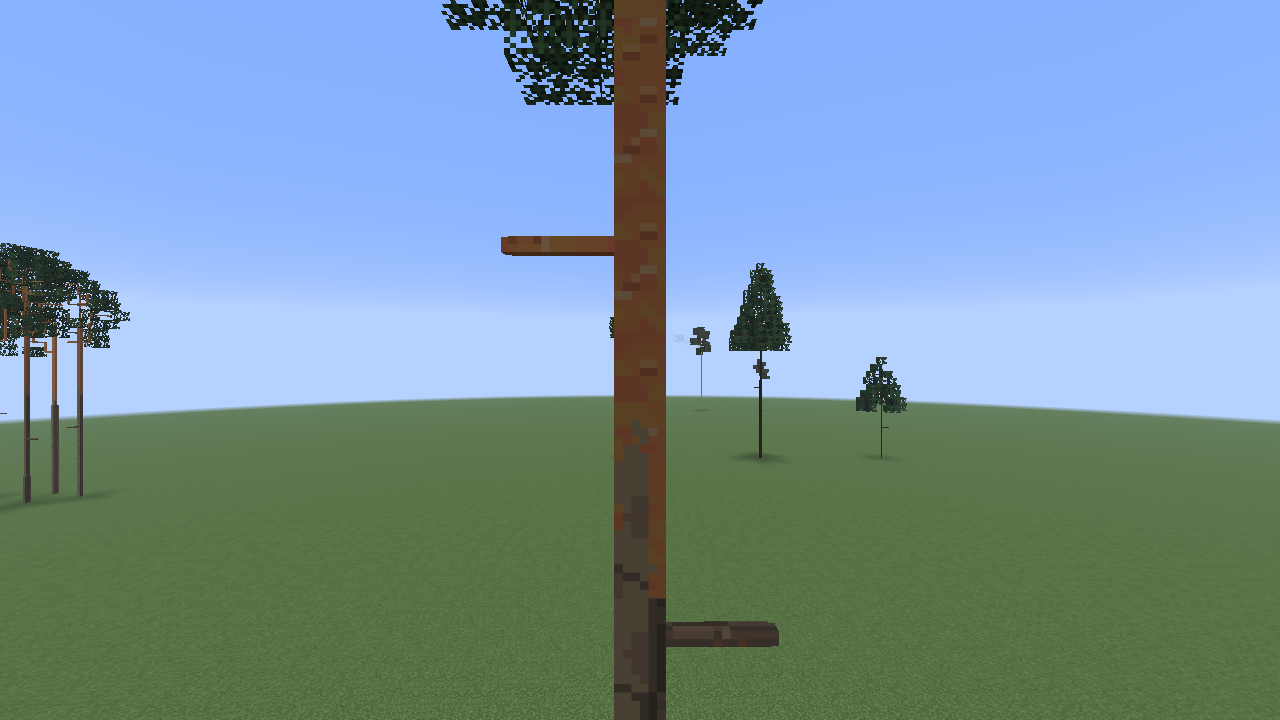
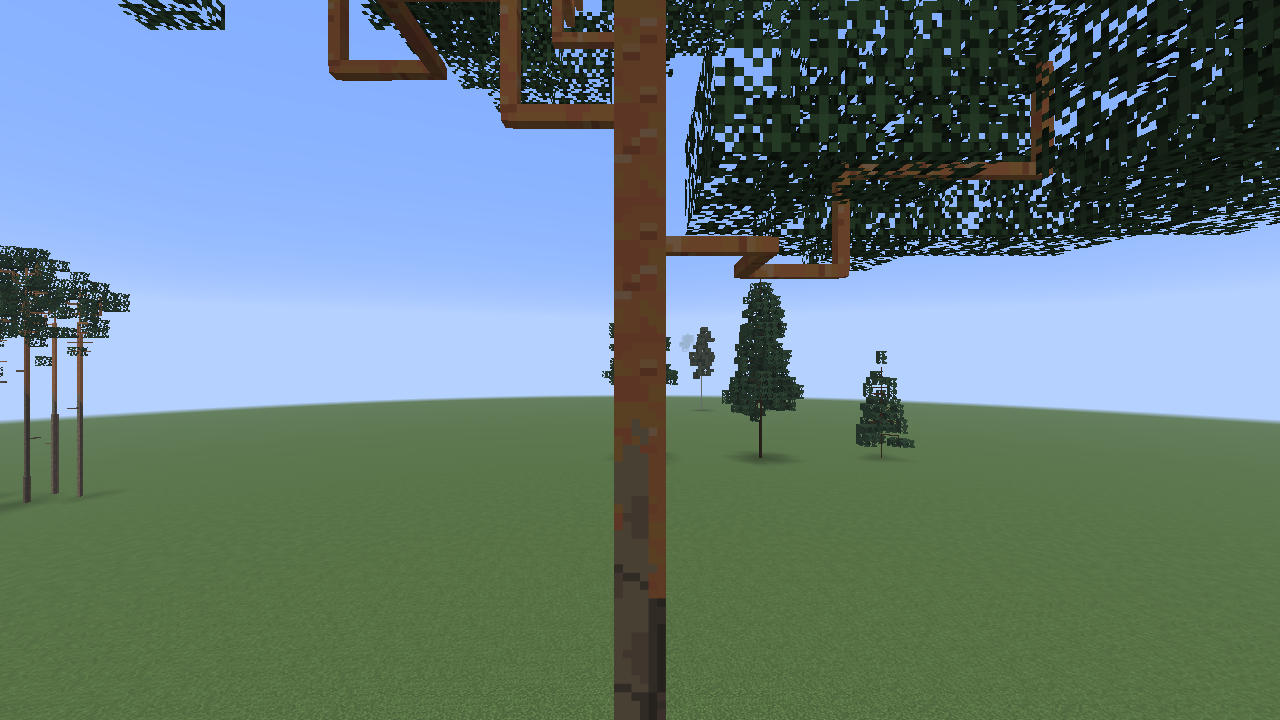
V6 review fixes, round 1
- Pine leaders stay in their column and carry needles in the upper crown; branch segments stop at the wood of other branches instead of merging into rods and loops
- In-game board: leaf distances must be supported by the world around them; six lone trees with stones in their crowns exercise the partial write
- New in-game screenshots and preview sheets (wood-only sheets for risk R4)
- Docs: docs/04 round 1 section with measurements and the N2 trade-off question for CP-B, docs/00 G.12 V6-a/d/g/h/i/j updated and V6-n/o/p added, BRIEF state; full suite passed

diff --git a/src/main/java/pl/polishforests/worldgen/tree/TreeShapePlan.java b/src/main/java/pl/polishforests/worldgen/tree/TreeShapePlan.java
@@ -26,8 +26,9 @@ import pl.polishforests.worldgen.landscape.Noise;
  * <li><b>Skeleton:</b> a trunk with a slight lean and wobble; branches are curves of nodes about one block apart whose
  * angle from the vertical turns smoothly from the base to the tip and whose horizontal direction never reverses, so the
  * voxels make slanted staircases instead of right-angled elbows (risk R4). Conifers with whorls rotated by the golden
- * angle (the pine with a crown in its upper quarter to third, tufts along the outer half of each branch, an umbrella
- * of few long limbs when old, dry stubs below the crown; the spruce with staggered whorls, the lowest ones drooping
+ * angle and a leader that stays in its column (the pine with a crown in its upper quarter to third, tufts along the
+ * outer half of each branch and around the leader in the upper crown, an umbrella of few long limbs when old, dry
+ * stubs below the crown; the spruce with staggered whorls, the lowest ones drooping
  * most, and a narrow spire), the birch with ascending branches whose tips hang, broad-leaved trees with a leader and
  * curved lateral branches with twigs, or (the oak) a fork into thick, crooked limbs that climb in vertical runs of one
  * to three blocks with one-block sideways jogs (axis-aligned, so they keep their radius). The branch lengths follow the
@@ -714,6 +715,10 @@ public final class TreeShapePlan {
 				int k = oldPine ? 2 + (next() < 0.45 ? 1 : 0)
 						: shape.perWhorl() + (next() < 0.35 ? 1 : 0) - (next() < 0.3 ? 1 : 0);
 				phase += GOLDEN + range(-0.3, 0.3);
+				if (!spruce && t >= 0.4 && nLeafH[at] <= 0) {
+					// Needles around the pine's leader in the upper crown: no bare candelabra of leader and branch bases.
+					leafAt(at, leafH * 0.6, leafV * 0.7);
+				}
 				for (int j = 0; j < k; j++) {
 					double azimuth = phase + j * 2 * Math.PI / k + range(-0.4, 0.4);
 					int from = at;
@@ -777,8 +782,8 @@ public final class TreeShapePlan {
 					if (i >= 1) {
 						leafAt(node, leafH * 0.7, leafV * 0.8);
 					}
-				} else if (i >= n * 0.45) {
-					// The pine's tufts cover the outer half of the shoot, so no bare elbow shows.
+				} else if (i >= (n <= 3 ? 0 : n * 0.45)) {
+					// The pine's tufts cover the outer half of the shoot (a short one all along), so no bare elbow shows.
 					leafAt(node, leafH * (oldPine ? 0.8 : 0.65), leafV * (oldPine ? 0.6 : 0.75));
 				}
 			}

diff --git a/docs/04-pionowy-wycinek.md b/docs/04-pionowy-wycinek.md
@@ -483,7 +483,7 @@ S8c (M2-20 d2) kończy się w trzecim worktree przed CP-B (PW-17). Kalendarz jes
 | R1 | LIGHT i FEATURES przy koronach 1:1 (grąd 1000–1500 liści na chunk wobec 600–800 w lesie wanilii) | budżety przekroczone, wolne wczytywanie | pomiar V10 przed runem i fauną, puste środki koron, PW-13, rzadsze a2, nowe budżety (PW-10) | V10 |
 | R2 | FPS przez quady liści w trybie Fancy (6–9 tys. na kolumnę chunka) | spadek klatek w grądzie | liście jako `LeavesBlock` (MoreCulling, tryb Fast), przelot FPS, gęstość skupień | V10 |
 | R3 | wysięg modelu pnia poza blok przy Sodium i AO | szczeliny, migotanie | tablica próbek w V2 jako pierwszy test, zapas: wariant C | V2 |
-| R4 | schodki ukośnych grubych konarów | „kanciaste” dęby | konary blisko osi, ukośność tylko dla r ≤ 2, ocena na PNG | V6 |
+| R4 | schodki ukośnych grubych konarów; kolanka i „rury” cienkich gałęzi | „kanciaste” dęby, korony jak rusztowanie | konary dębu osiowymi odcinkami, ukośność tylko dla r ≤ 2, gałęzie jako krzywe o kątach dobrych dla wokseli, bez haków i zlewania gałęzi, ocena na PNG samego drewna (`*_drewno.png`) i test kolanek i haków | V6 |
 | R5 | przycinanie koron i determinizm: sąsiedzi z chunków w promieniu 2 nie mają `ChunkHabitats` na etapie FEATURES | różnice zależne od kolejności, spory koron | próba V5, PW-9 (a), test determinizmu w każdym kroku drzew (w V6 także ekoton z drzewami zastępczymi wanilii, które ignorują terytoria; `docs/00` V5-h). Wakat kandydata wolno uznać tylko wtedy, gdy na pewno nie wyrośnie na nim drzewo: dokładne wakaty tylko w chunku pnia, w promieniu 1 tylko pewne (runda 2 V5). Pas słabszego zwarcia na granicach chunków V9 usuwa według V5-i i sprawdza zrzutem okapu z góry | V5–V11 |
 | R6 | okno zapisu 3 × 3 chunki | ucięte korony i długie kłody | promień korony ≤ 16, kłody do wnętrza okna | V6, V11 |
 | R7 | korony nad dachami struktur | liście w wioskach | `BUILDING_GAP` z promienia korony, maska struktur, test wiosek z S8 | V9 |
@@ -1452,3 +1452,53 @@ Ekoton z drzewami zastępczymi (R5, V5-h; drzewostan grądu 3 × 3 chunki, 30% k
 - Liczby karty norm (N1–N4) mierzy dopiero V9, gdy planer stanie w świecie.
 
 **Testy.** `TreeShapePlanTest` (9: determinizm wobec kolejności, nowego obszaru roboczego i wątków; łańcuch `parent` do korzenia i promień nierosnący; liście ≤ 6 od drewna niezależnym BFS; zapis tylko w 3 × 3 chunkach i kole 16; brak sporów koron w drzewostanach 4 × 4 chunki dla 4 map drzewostanu i 2 zestawów gatunków, ponad 1000 drzew: w piętrze żadna kolumna dwóch drzew i wszystko w terytorium, między piętrami żadne dwa liście ani dwa drewna w jednym bloku, drewno pięter niższych z dala od pni; pasma liści; strefa przejściowa sosny; sylwetki archetypów; raport bloków), `ProceduralTreeStatesTest` (kodek ficzera z wartościami domyślnymi i błędami, stany pni, kory sosny, pełnej kłody i liści), `TreeShapePlanCostTest` (`@Tag("cost")`), `CrownTerritoryTest`, `RegistrySnapshotTest` (bez zmian: V6 nie dodaje bloków ani przedmiotów), `fastTest`, gametest `slice -Psites=trees` (PASS), pełny zestaw `tools/dev/run-tests test`.
+
+### Runda 1 poprawek po przeglądzie V6 (2026-10-17)
+
+Przegląd zgłosił 2 problemy blokujące, 3 poważne i 10 drobnych. Wszystkie sprawdzone w kodzie i na zrzutach; prawdziwe są wszystkie (fałszywego alarmu nie było), część poprawiona inaczej, niż podpowiadał przegląd (niżej). Drobne wybory: `docs/00` G.12 (V6-a, V6-d, V6-g, V6-h, V6-i, V6-j zmienione, nowe V6-n, V6-o, V6-p).
+
+**Blokujące.**
+- **Gałęzie jak rury i rusztowania (R4).** Przyczyny w kodzie: gałąź to 2–3 węzły z całym wygięciem w ostatnim odcinku (DDA dawał „poziomo, potem pionowo”), gałązki pod kątem do 63° od gałęzi zawracały wzdłuż osi (haki), odcinek wchodzący w drewno innej gałęzi szedł dalej po nim (z dwóch gałęzi powstawał „pręt” obok pnia albo pętla, np. ⊐), a przewodnik sosny z pochyleniem i drganiem robił schodki. Poprawki: gałąź to krzywa z węzłami co ok. 1 blok łuku, kąt od pionu zmienia się płynnie od nasady do końca, kierunek poziomy jest stały; kąty kroków przesunięte do takich, które wokselizują się czysto (ok. 45° = pojedyncze schodki, czyli linia ukośna z daleka, albo 70–110° = długie odcinki poziome z pojedynczym krokiem), więc w jednej gałęzi nie ma naraz pionowego i poziomego odcinka po 2 bloki; gałązki zachowują znaki składowych gałęzi i konaru (bez haków); odcinek, który trafia w drewno innej gałęzi, kończy się (dalej idzie tylko przez przodka albo, na samym początku, przez rodzeństwo z tego samego węzła); przewodnik sosny i świerka zostaje w swojej kolumnie (pochylenie ≤ 0,42, bez drgania); kępy igieł sosny na zewnętrznej połowie każdej gałęzi (krótkiej na całej), igły wokół przewodnika w górnych 60% korony; gołe cienkie końce bez liścia obok (przycięte skupienia) usuwane. Nowy arkusz samego drewna `iglaste_drewno.png` / `lisciaste_drewno.png` (10 px na blok, liście blade), więc R4 da się ocenić na PNG. Test `branchesMakeNoHooksAndFewElbows` pilnuje liczb.
+- **Pasma pięter jak tort.** Stałe pasma zastąpione dwiema falistymi powierzchniami podziału nad kolumnami świata (G.12 V6-a): górna 0,44, dolna 0,2 wysokości wierzchołków drzewostanu klasy wieku w kolumnie, z szumem ±3 i ±1,5 bloku (nowe sole `feature.tree.layers.upper` i `.lower`), rząd przy powierzchni przerzedzony. Nasada korony okapu wynika z udziału korony gatunku (pasmo jej już nie podnosi), drzewo a2 kończy się 0–2,5 bloku pod górną powierzchnią, a jego korona zaczyna się do 3 bloków nad dolną (bez wspólnej „półki”), podrost ma wysokości 2–5 m bez wspólnego pułapu. Gwarancja z V6 zostaje: na płaskim terenie liście dwóch pięter nie trafiają w jeden blok (wszystkie drzewa drzewostanu widzą te same powierzchnie, wiek z mapy drzewostanu; `TreeRequest` dostał pole `stands`). Odrzucone z podpowiedzi: zejście koron okapu niżej w kolumnach bez terytorium a2. Takiego zbioru nie da się policzyć dokładnie z chunka pnia (terytorium a2 przy znaczniku sięga 1,5 R, wakaty dalszych chunków są nieznane), a bezpieczny nadzbiór pokrywa w lesie naturalnym prawie wszystkie kolumny.
+
+**Poważne.**
+- **Grab i brzoza jak talerze na tyczkach** (skutek pasm): w formie drzewostanu udział korony (wysokość nad najniższym liściem) grabu 0,45 / 0,42 (dojrzały / starodrzew; było 0,18 / 0,14), brzozy 0,45 / 0,45 (0,22 / 0,19), lipy 0,54 / 0,52 (starodrzew 0,28), klonu 0,49 / 0,45 (starodrzew 0,25). Grab gęstszy (wypełnienie 0,96, pusty środek 0,2) i jajowaty. Minimum gatunku (grab, lipa, klon, buk, świerk ≥ 0,4, brzoza ≥ 0,3) sprawdza test sylwetek. Przeniesienie drzewa do a2, gdy powierzchnia skróciłaby koronę bardziej, nie było potrzebne.
+- **Liściaste nie do odróżnienia, dąb bez konarów.** Dąb: 2–3 grube konary od rozwidlenia, wspinające się pionowymi odcinkami po 1–3 bloki z przesunięciem o blok w bok (30–48° od pionu, osiowo, więc bez obcięcia do 2 px), do 0,45–0,6 obwiedni, potem każdy rozwidla się na dwa krzywe ramiona do brzegu korony; korona szersza i krótsza. Bloki drewna r ≥ 3 poza kolumną pnia w starym dębie: 12,7 na drzewo (było 3,7), średni największy promień poza pniem 2,9 px. Lipa jajowata i gęsta (niższa nasada, wypełnienie 0,94), buk z kopułą (profil spłaszczony u góry), klon niższy i okrągły (22 / 25 m), jesion z wysoką, rzadką kopułą (wznoszące się gałęzie, większe skupienia). Szerokość / wysokość korony w drzewostanie (40 drzew, dojrzały / starodrzew): dąb 1,06 / 1,09, grab 0,86 / 0,96, klon 0,81 / 0,96, buk 0,78 / 0,80, lipa 0,69 / 0,76, jesion 0,70 / 0,69. Celu przeglądu 1,3–1,6 dla dębu nie osiągnięto (sprawy otwarte).
+- **Świerk z płaskim dnem i kwadratem z góry.** Okółki obracane o kąt złoty, 3–5 gałęzi, część o blok wyżej, długości × 0,72–1,1, końce dolnych okółków opadają do ok. 55° (1–2 bloki rozłożone wzdłuż gałęzi), szczyt wyższych niż 8 bloków drzew to iglica szeroka na 1 blok. Najniższy rząd liści dojrzałego / starego świerka w drzewostanie: 4,5 / 7,4 liścia (było 14,7 / 19,1).
+
+**Drobne (wszystkie prawdziwe, wszystkie poprawione).**
+- `write` liczył odległości tak, jakby każdy liść stanął: teraz zapisuje najpierw drewno, sprawdza, które liście da się postawić, i przy jakimkolwiek braku liczy BFS od istniejącego drewna przez stawiane liście (`TreeVoxels.leafDistances(written, placeable)`).
+- Sprawdzenie w grze nie mogło zawieść: teraz każdy liść musi mieć odległość ≤ 6, której świat wokół niego nie przeczy (co najmniej najmniejsza z sąsiadów + 1 według `LeavesBlock.getOptionalDistanceAt`), oraz doszło sześć drzew z kamieniem w co piątym miejscu liścia i w jednym bloku gałęzi (częściowy zapis).
+- Test częściowego drewna: nowy `partialWritesGiveTheDistancesOfWhatExists` (brak poddrzewa gałęzi i co piątego liścia, porównanie z niezależnym BFS); stary komentarz poprawiony.
+- Drzewa samotne (bez terytorium i mapy drzewostanu): forma wolnostojąca bez powierzchni podziału, udział korony +0,15, promień × 1,25 (V6-n; dotyczy też sadzonek V7).
+- Kompromis z N2 zapisany jako pytanie do CP-B (niżej).
+- Javadoc ficzera i G.12 V6-g bez `/place feature` (skonfigurowanego ficzera tego typu jeszcze nie ma).
+- Suche kikuty sosny zawsze z korą dolną (szarą).
+- Stara sosna jako parasol: korona 0,22–0,27 wysokości, promień × 1,3, 2–3 długie konary na okółek, płaskie kępy. Szerokość / wysokość korony 1,18 (było 0,73).
+- Podrost: 0,6–1 × 3 / 4,5 / 5 m, najwyżej do dolnej powierzchni (2–5 m), bez wspólnego pułapu.
+- „Naleśniki” jesionu i buka a2: skupienia z własną głębokością (× 0,85–1,2) i przesunięciem w pionie (±0,4), u liściastych promień pionowy co najmniej 0,8 poziomego.
+
+**Pomiary po rundzie.**
+
+Kształt gałęzi (40 drzew okapu w formie drzewostanu na gatunek i wiek, dojrzały / starodrzew; „kolanka” miarą przeglądu, liczą też nasady gałęzi na pniu; „wewnątrz” bez nasad, czyli tylko pionowy odcinek 2–3 bloków i poziomy ≥ 2 w jednej gałęzi):
+
+| Gatunek | kolanka (przegląd: przed) | kolanka teraz | wewnątrz gałęzi | haki (przed) | haki teraz |
+|---|---|---|---|---|---|
+| sosna | 4,1 / 7,1 | 1,4 / 1,8 | 0,0 / 0,1 | — | 0 / 0 |
+| świerk | 8,8 / 11,3 | 10,1 / 11,7 | 0 / 0 | — | 0 / 0 |
+| dąb | 9,0 / 15,2 | 7,6 / 10,4 | 1,1 / 2,2 | 2,4 / 3,4 | 0 / 0 |
+| buk | 4,5 / 6,9 | 7,2 / 9,9 | 0 / 0,2 | 1,7 / 3,1 | 0 / 0 |
+
+Kolanka świerka to prawie wyłącznie poziome gałęzie odchodzące od pnia (naturalne dla świerka); buk ma ich więcej, bo ma więcej gałęzi. Haki brzozy 0,2–0,25 na drzewo (pochylony przewodnik).
+
+Pionowe piętra (`standsHaveNoEmptyLeafRow`, widok z boku środkowego rzędu chunków jak w `drzewostan_*.png`, kolumny z liśćmi na 48 w każdym rzędzie bloków): grąd od rzędu 1 do wierzchołków 11–48, żaden rząd pusty (było 0 w trzech rzędach); bór gospodarczy od rzędu 5: 7–47 (podrost rzadki z założenia).
+
+Koszt planera (`costTest`, spokojna maszyna, mediana 7 rund po 400 drzew; drzewa samotne, więc w formie wolnostojącej, większe niż w drzewostanie): sosna 0,062 / 0,064 ms, świerk 0,101 / 0,121, brzoza 0,052 / 0,071, dąb 0,136 / 0,190, buk 0,208 / 0,254, grab 0,130 / 0,163, lipa 0,166 / 0,204, jesion 0,104 / 0,131, klon 0,117 / 0,139 (budżety 0,2 i 0,5 ms: wszystkie w budżecie, świerk starodrzewu z zapasem 1,7 ×). Drzewostan starodrzewu z terytoriami: 0,047 ms na drzewo z gatunkami boru, 0,062 ms z gatunkami grądu (było 0,039 / 0,047), czyli ok. 1 ms na chunk.
+
+Tablica w grze (`slice -Psites=trees`, PASS): 332 drzewa, 14 758 bloków drewna, wszystkie na miejscu, 28 767 liści, każdy z odległością ≤ 6 popartą światem, zaraz i po 200 tickach; drzewa z kamieniami: 729 kamieni, 10 bloków drewna za kamieniem (z potomkami), 2831 liści, wszystkie poparte. Ekoton z drzewami zastępczymi: 246 liści i 16 bloków drewna proceduralnego zależnych od kolejności (było 320 i 22), drewno wanilii 0. Zrzuty w `docs/wycinek/drzewa/gra/` zastąpione nowymi.
+
+**Pytanie do CP-B (kompromis N2).** Powierzchnie podziału trzymają liście pięter osobno (wynik niezależny od kolejności dekoracji), ale przez to drzewa a2 kończą się pod górną powierzchnią: 8–14 bloków w drzewostanie dojrzałym (średnio 10,5) i 9–16 w starodrzewie (średnio 12,3), a N2 (§6) chce a2 15–22 bloki. Do wyboru przy CP-B: (a) zostawić rozdział pięter (a2 niższe niż w N2); (b) podnieść górną powierzchnię (a2 wyższe, ale korony okapu krótsze, bo w drzewostanie nie schodzą pod nią); (c) pozwolić liściom pięter się nakładać (a2 i okap jak w N2, część liści zależna od kolejności dekoracji chunków).
+
+**Sprawy otwarte.** Korona dębu ma szerokość / wysokość ok. 1,1, nie 1,3–1,6 (w drzewostanie ogranicza ją terytorium, samotny dąb ma dłuższą koronę); jeśli przy CP-B dąb będzie za mało „dębowy”, lekka kolonizacja przestrzeni tylko dla dębu (budżet pozwala: 0,19 ms z 0,5). Z daleka, pod światło, na brzegu boru nadal widać jasne cienkie odcinki gałęzi sosen pod kępami (nasady gałęzi przy przewodniku); kolanek i haków w gałęziach praktycznie nie ma, ale kanciasty wygląd cienkich pni przy kolankach to cecha bloku pnia (pasek kolanka, V10). Powierzchnie podziału liczą się od podstawy pnia, więc na stoku liście sąsiednich pięter mogą się spotkać (V9).
+
+**Testy.** `TreeShapePlanTest` (13 testów, w tym nowe: `partialWritesGiveTheDistancesOfWhatExists`, `layersKeepToTheirSplitSurfaces` zamiast testu pasm, `splitSurfacesAreWavyAndOrdered`, `standsHaveNoEmptyLeafRow`, `branchesMakeNoHooksAndFewElbows`; sylwetki w formie drzewostanu z minimum długości korony; „lustro” sosny z suchymi kikutami kory dolnej), `ProceduralTreeStatesTest`, `CrownTerritoryTest`, `TreeShapePlanCostTest` (`costTest`), `fastTest`, gametest `slice -Psites=trees` (PASS, z drzewami z kamieniami), pełny zestaw `tools/dev/run-tests test`.

diff --git a/docs/00-decyzje-do-podjecia.md b/docs/00-decyzje-do-podjecia.md
@@ -302,16 +302,19 @@ Wybory przyjęte w kroku V6 (planer drzew `TreeShapePlan`) bez pytania, zgodnie 
 
 | # | Wybór | Uzasadnienie i alternatywa |
 |---|---|---|
-| V6-a | **Pasma wysokości liści pięter** (względem podstawy pnia): okap od 6 / 13 / 16 bloków w górę (drągowina / dojrzały / starodrzew), piętro a2 3–5 / 5–12 / 5–15, podrost do 2 / 4 / 4. Nasada korony okapu nie schodzi poniżej pasma (korona krótsza niż w tabeli gatunku), drzewo a2 jest niższe od górnej granicy pasma o 0–3 bloki (różna wysokość, nie płaska warstwa) | Na płaskim terenie liście dwóch pięter nigdy nie trafiają w ten sam blok, więc wynik nie zależy od kolejności dekoracji, choć diagramy pięter (V5) się nakładają. Alternatywa: pasma z rzeczywistych sąsiadów (gatunek i nasada korony okapu nad drzewem a2) w V9. Liczby [S] do kalibracji z N2 w V9 (a2 wychodzi niższe niż 15–22 bl. z §6) |
+| V6-a | **Powierzchnie podziału pięter** (runda 1 przeglądu V6, zamiast pasm o stałych granicach): dwie faliste powierzchnie nad kolumnami świata (szum o fali 13 bloków, sole `feature.tree.layers.upper` i `.lower`), górna na 0,44 wysokości wierzchołków drzewostanu klasy wieku w kolumnie (14 / 25 / 29 m) ±3 bloki, dolna na 0,2 ±1,5 bloku (co najmniej 3, górna co najmniej 3 nad dolną). W drzewostanie liście i gałęzie okapu leżą na górnej powierzchni lub nad nią, a2 między powierzchniami, podrost pod dolną; rząd przy powierzchni przerzedzony (45% komórek pustych). Nasada korony okapu wynika z udziału korony gatunku, nie z pasma; drzewo a2 sięga 0–2,5 bloku pod górną powierzchnię nad pniem | Na płaskim terenie liście dwóch pięter nadal nigdy nie trafiają w ten sam blok (wszystkie drzewa drzewostanu widzą te same powierzchnie, wiek z mapy drzewostanu), a granica pięter nie jest prostą linią przez cały drzewostan (Z10): w grądzie każdy rząd od 1 do wierzchołków ma liście (najmniej 11 z 48 kolumn). Odrzucone: korony okapu schodzące niżej w kolumnach bez terytorium a2 (zbiór kolumn, które a2 może zająć, pokrywa w lesie naturalnym prawie całą powierzchnię, bo krawędź terytorium sięga 1,5 R). **Kompromis z N2 do CP-B** (pytanie w `docs/04`, „Runda 1 poprawek po przeglądzie V6”) |
 | V6-b | **Drewno pięter niższych trzyma się kolumnę od pni** wszystkich zachowanych kandydatów wzoru M2 (predykat `Trunks`, w grze `CrownTerritories.Session#candidate`); liście nie | Drewno okapu (pień, suche kikuty) przechodzi przez pasma niższych pięter; drewno z drewnem byłoby zależne od kolejności, drewno z liśćmi nie (drewno nadpisuje liście, liście drewna nie) |
 | V6-c | Odcinek wchodzący w istniejące drewno (rodzica albo rodzeństwa z tego samego węzła) idzie dalej od tego bloku zamiast się urywać; promień bloku to najwyżej promień jego rodzica | Rodzeństwo z jednego węzła (konary dębu, okółki) dzieli pierwsze bloki; urywanie gubiło większość korony. Łańcuch `parent` i promień nierosnący zostają zachowane |
-| V6-d | **Ukośne odcinki (> 25° od osi) mają najwyżej 2 px**, konary dębu odchodzą 12–24° od pionu i wychylają się ku końcom | Ryzyko R4 (schodki grubych ukośnych konarów); grube konary prawie pionowe, cienkie gałęzie dowolnie |
+| V6-d | **Ukośne odcinki (> 25° od osi) mają najwyżej 2 px**; gałęzie to krzywe z węzłami co ok. 1 blok łuku, kąt od pionu zmienia się płynnie od nasady do końca, kierunek poziomy się nie odwraca (gałązki zachowują znaki składowych gałęzi i konaru). Konary dębu: 2–3 konary od rozwidlenia, każdy w pionowych odcinkach po 1–3 bloki z przesunięciem o 1 blok w bok (30–48° od pionu, osiowo, więc grube), do 0,45–0,6 obwiedni, potem dwa rozwidlenia do brzegu korony | Ryzyko R4 (runda 1 przeglądu V6: kolanka i „rusztowania” w grze). Kolanka wewnątrz gałęzi (oba ramiona ≥ 2 bloki) spadły do 0–0,7 na drzewo poza dębem (1,1 / 2,2, kanciaste konary pasują do dębu); haki wstecz: 0 poza brzozą (0,2–0,25, pochylony przewodnik); gałąź trafiająca w drewno innej gałęzi kończy się (bez prętów i pętli) |
 | V6-e | **Liście zastępcze wanilii do V7** (przez id): sosna i świerk `spruce_leaves`, brzoza `birch_leaves`, grab i buk `dark_oak_leaves`, dąb, lipa, klon i jesion `oak_leaves`, `persistent` false, odległość z planera | Własne liście gatunków daje V7; do tego czasu odcienie różnią przynajmniej iglaste, brzozę i grupę grabu |
 | V6-f | **Pełna kłoda wanilii** (`TreeTrunk.log()`, oś z kierunku rodzica) dla promienia ≥ 7,5 px (pierśnica ≥ ok. 94 cm), bez dysków kłód dla pni grubszych niż blok | W tabeli wycinka najgrubszy dąb starodrzewu ma pierśnicę ok. 78 cm × 1,15 = 90 cm (r 7), więc pełnej kłody jeszcze nie ma; dyski kłód (pomniki) w M3 |
-| V6-g | Ficzer `polishforests:procedural_tree` (pola `species`, `layer` domyślnie `canopy`, `age_class` domyślnie `mature`) sadzi drzewo samotne bez terytorium (sadzonka, `/place feature`), na wolnym bloku nad blokiem z pełną górną ścianą. Drzewostan V9 woła planer wprost z terytorium i zapisuje przez `ProceduralTreeFeature.write` | ZW-1: `PlacedFeature.place` nie przekazuje warstwy, wieku ani sąsiadów |
-| V6-h | **Zapis:** drewno, potem liście, tylko na powietrze i `#replaceable_by_trees`; blok drewna, którego rodzic nie powstał, i jego potomkowie odpadają, a odległości liści liczą się wtedy od nowa (`TreeVoxels.leafDistances`). Bez dekoratorów wanilii | Nie zostawia liści do opadnięcia ani wiszących gałęzi; R8 (huby i mech na cienkich pniach) |
-| V6-i | **„Lustro” sosny** od 0,45 / 0,50 / 0,55 wysokości (drągowina / dojrzały / starodrzew, ±0,02, na pełnym bloku), pod nim 2 bloki strefy przejściowej na pniu; gałęzie powyżej strefy z korą „lustra”, suche kikuty poniżej z korą dolną | Plan V6 i V1-i; gałęzie sosny w naturze mają cienką rudą korę |
-| V6-j | **Allometria** [S] (tabela w `SpeciesShape`): wysokość, pierśnica, udział i promień korony okapu według klasy wieku i gatunku (np. sosna 14 / 23 / 27 m, dąb 15 / 27 / 31 m, pierśnica dębu 14 / 45 / 78 cm), rozrzut ±10% wysokości i ±15% pierśnicy i promienia z hasza pnia; drzewo a2 to 0,62 wysokości, 0,55 pierśnicy i 0,7 promienia korony gatunku (w paśmie), podrost 2,5 / 4 / 4,5 m | Raport techniki §3.3 i `06 §9.2`; kalibracja z kartą norm (N1–N4) w V9 |
+| V6-g | Ficzer `polishforests:procedural_tree` (pola `species`, `layer` domyślnie `canopy`, `age_class` domyślnie `mature`) sadzi drzewo samotne (bez terytorium i mapy drzewostanu, więc w formie wolnostojącej, V6-n) na wolnym bloku nad blokiem z pełną górną ścianą. Na razie dostępny tylko z Javy (nie ma jeszcze skonfigurowanego ficzera tego typu; dadzą go V7 lub V9). Drzewostan V9 woła planer wprost z terytorium i mapą drzewostanu i zapisuje przez `ProceduralTreeFeature.write` | ZW-1: `PlacedFeature.place` nie przekazuje warstwy, wieku ani sąsiadów. Wzmianka o `/place feature` usunięta (runda 1 przeglądu) |
+| V6-h | **Zapis:** drewno, potem liście, tylko na powietrze i `#replaceable_by_trees`; blok drewna, którego rodzic nie powstał, i jego potomkowie odpadają. Przed liśćmi zapis sprawdza, które liście da się postawić; gdy któryś blok drewna albo liścia nie powstaje, odległości liczą się od nowa od istniejącego drewna przez stawiane liście (`TreeVoxels.leafDistances(written, placeable)`). Bez dekoratorów wanilii | Nie zostawia liści do opadnięcia ani wiszących gałęzi (runda 1 przeglądu: wcześniej liść za kamieniem mógł dostać odległość 1–6 przy rzeczywistej 7); R8 |
+| V6-i | **„Lustro” sosny** od 0,45 / 0,50 / 0,55 wysokości (drągowina / dojrzały / starodrzew, ±0,02, na pełnym bloku), pod nim 2 bloki strefy przejściowej na pniu; żywe gałęzie powyżej strefy z korą „lustra”, suche kikuty zawsze z korą dolną (szarą) | Plan V6 i V1-i; gałęzie sosny w naturze mają cienką rudą korę, martwe kikuty nie (runda 1 przeglądu) |
+| V6-j | **Allometria** [S] (tabela w `SpeciesShape`): wysokość, pierśnica, udział i promień korony okapu według klasy wieku i gatunku (np. sosna 14 / 23 / 27 m, dąb 15 / 27 / 31 m, pierśnica dębu 14 / 45 / 78 cm), rozrzut ±10% wysokości i ±15% pierśnicy i promienia z hasza pnia; drzewo a2 to 0,62 wysokości, 0,55 pierśnicy i 0,7 promienia korony gatunku (pod górną powierzchnią podziału), podrost 0,6–1 × 3 / 4,5 / 5 m, najwyżej do dolnej powierzchni (2–5 m, bez wspólnego pułapu). Runda 1: dąb szerszy i krótszy (udział korony 0,44 / 0,47, promień 5,4 / 6,8), lipa jajowata i gęsta (0,66 / 0,68, wypełnienie 0,94), grab gęsty (0,96, pusty środek 0,2), buk kopulasty (profil spłaszczony u góry, 0,52), klon niższy i okrągły (22 / 25 m), jesion wysoki z rzadką kopułą (gałęzie 50→26°, duże skupienia), brzoza węższa (2,4 / 3,0) | Raport techniki §3.3 i `06 §9.2`; kalibracja z kartą norm (N1–N4) w V9 |
 | V6-k | Suche kikuty: jeden blok r 1 osiowo od pnia, co 1,2–2,2 bloku od 0,25 H do nasady korony z szansą sosna 0,35, świerk 0,45, brzoza 0,15, liściaste 0,04–0,08 | Samooczyszczanie pnia; świerk trzyma suche gałęzie najdłużej |
 | V6-l | Liść nad każdym cienkim blokiem pędu w koronie (osłona od góry); skupienia liści to postrzępione elipsoidy z dziurami (wypełnienie 0,74–0,92), duże korony liściaste puste w środku (rdzeń 0,4–0,45 promienia obwiedni poniżej górnej 1/5 korony) | Bez osłony z góry widać było gołe gałęzie sosny na ok. 1/4 kolumn okapu (podgląd z góry) |
 | V6-m | **Zapas z planu niepotrzebny:** planer kosztuje 0,02–0,15 ms na drzewo (budżety 0,2 i 0,5 ms), więc bez biblioteki gotowych szkieletów; korony liściaste z modelu parametrycznego z losowym kątem złotym, rozwidleniem dębu i dziurami w skupieniach, bez kolonizacji przestrzeni | Kolonizacja przestrzeni (150–300 punktów, T-D3) zostaje opcją, gdyby użytkownik przy CP-B uznał korony za zbyt regularne; koszt pozwala ją dodać |
+| V6-n | **Drzewo wolnostojące** (żądanie bez terytorium i bez mapy drzewostanu: ficzer `procedural_tree`, sadzonki V7): bez powierzchni podziału nad i pod koroną okapu, udział korony +0,15 (najwyżej 0,8), promień korony × 1,25 | Runda 1 przeglądu: drzewa samotne były „lizakami” z koroną w górnych 15–40%. Drzewo w drzewostanie (terytorium albo mapa drzewostanu) ma formę zwarcia |
+| V6-o | **Świerk:** okółki obracane o kąt złoty, 3–5 gałęzi, 35% gałęzi o blok wyżej, długości × 0,72–1,1, końce dolnych okółków opadają do ok. 55° (1–2 bloki), górne lekko wznoszą się; szczyt drzew wyższych niż 8 bloków to iglica szeroka na 1 blok (2 bloki bez gałęzi). **Sosna:** kępy igieł na zewnętrznej połowie każdej gałęzi; w starodrzewie parasol: korona 0,22–0,27 wysokości, promień × 1,3, 2–3 długie konary na okółek co 1,4 × odstęp, płaskie kępy | Runda 1 przeglądu (płaskie dno i kwadrat z góry świerka; stara sosna nie wyglądała na starą) |
+| V6-p | Skupienia liści z własną głębokością (× 0,85–1,2) i przesunięciem w pionie (±0,4); u liściastych promień pionowy co najmniej 0,8 poziomego. Gołe cienkie końce gałęzi bez liścia obok (przycięte skupienia) są usuwane | Runda 1 przeglądu („naleśniki” jesionu i buka a2, gołe zadarte końce) |

diff --git a/docs/BRIEF.md b/docs/BRIEF.md
@@ -10,7 +10,7 @@ Mod Fabric do Minecrafta 26.3 (Java 25, Loom, Gradle 9.7, JDK z `gradle.properti
 
 - M0, M1 i M2 zamknięte (M2: punkty kontrolne 1 i 2 przyjęte 2026-10-14; decyzje M2-13 … M2-27 domyślne, do potwierdzenia, `docs/00` E).
 - Pionowy wycinek (grąd i bór świeży, plan `docs/04-pionowy-wycinek.md`), część 1 zrobiona: V0, V1, V2 (+V2b), V3, V5, CP-A (styl tekstur i cienki pień przyjęte, `docs/00` G.9).
-- Część 2: **V1b** (wygładzenie tekstur), **V4** (karta norm, pomiar bazowy M2: `docs/wycinek/karta-norm-m2.md`) i **V6** (planer drzew `TreeShapePlan`, ficzer `procedural_tree`, podgląd `docs/wycinek/drzewa/`; świat jeszcze bez nowych drzew, podłącza je V9) zrobione. **Następne: V7** (liście, sadzonki, LITE sosny), **V9** (`StandMap`, drzewostan wycinka; usuwa pas słabszego pokrycia koron na granicach chunków, V5-i), **V10** (pomiary i budżety; rozstrzyga pasek kolanka i dziury w narożnikach czapki pnia), potem **CP-B**.
+- Część 2: **V1b** (wygładzenie tekstur), **V4** (karta norm, pomiar bazowy M2: `docs/wycinek/karta-norm-m2.md`) i **V6** (planer drzew `TreeShapePlan`, ficzer `procedural_tree`, podgląd `docs/wycinek/drzewa/`; świat jeszcze bez nowych drzew, podłącza je V9) zrobione; runda 1 przeglądu V6: faliste powierzchnie podziału pięter zamiast pasm, gałęzie jako krzywe bez kolanek i haków, drzewa wolnostojące (pytanie do CP-B: kompromis N2, `docs/04` „Runda 1 poprawek po przeglądzie V6”). **Następne: V7** (liście, sadzonki, LITE sosny), **V9** (`StandMap`, drzewostan wycinka; usuwa pas słabszego pokrycia koron na granicach chunków, V5-i), **V10** (pomiary i budżety; rozstrzyga pasek kolanka i dziury w narożnikach czapki pnia), potem **CP-B**.
 - Tor sarny **V8** gotowy na gałęzi `slice-fauna` (model i kalibracja GeckoLib, runda 1 poprawek), **wstrzymany przez użytkownika, nie scalać**.
 
 ## Konwencje
@@ -36,7 +36,7 @@ Mod Fabric do Minecrafta 26.3 (Java 25, Loom, Gradle 9.7, JDK z `gradle.properti
 - `worldgen/habitat/HabitatClassifier` – siedlisko kolumny; `HabitatBiome`, `Species`, `ForestCover` (maska trybu D), `Calibration` (progi).
 - `worldgen/surface/SurfaceBuilder` – plan powierzchni chunka; `SoilBlocks`, `BankShelf`, `SoilBlend`.
 - `worldgen/feature/` – `ModFeatures`, `TreeStandFeature` + `plan/TreeStandPlan` (drzewostan), `PlantLayerFeature` (warstwy runa), `plan/Ecotone`.
-- `worldgen/tree/CrownTerritories` – terytoria koron (V5); `TreeShapePlan` – planer drzew (V6: `TreeRequest` → `TreeVoxels`, gatunki w `SpeciesShape`, pasma pięter); `StandMap` (w V9 pełna), `Vacancies`, `AgeClass`, `CrownLayer`.
+- `worldgen/tree/CrownTerritories` – terytoria koron (V5); `TreeShapePlan` – planer drzew (V6: `TreeRequest` → `TreeVoxels`, gatunki w `SpeciesShape`, powierzchnie podziału pięter `split`); `StandMap` (w V9 pełna), `Vacancies`, `AgeClass`, `CrownLayer`.
 - `worldgen/feature/ProceduralTreeFeature` – ficzer `polishforests:procedural_tree` i zapis planu (`write`, liście zastępcze wanilii do V7).
 - `worldgen/norms/` – `ForestNorms` (karta norm §6), `ForestCensus`, `CensusGrid`, `CensusTestPlot` (V4).
 - `block/TrunkBlock` – cienki pień (`radius` 1–7); `TreeTrunk` (12 bloków pni), `ModBlocks`, `RegistrySnapshot`.
